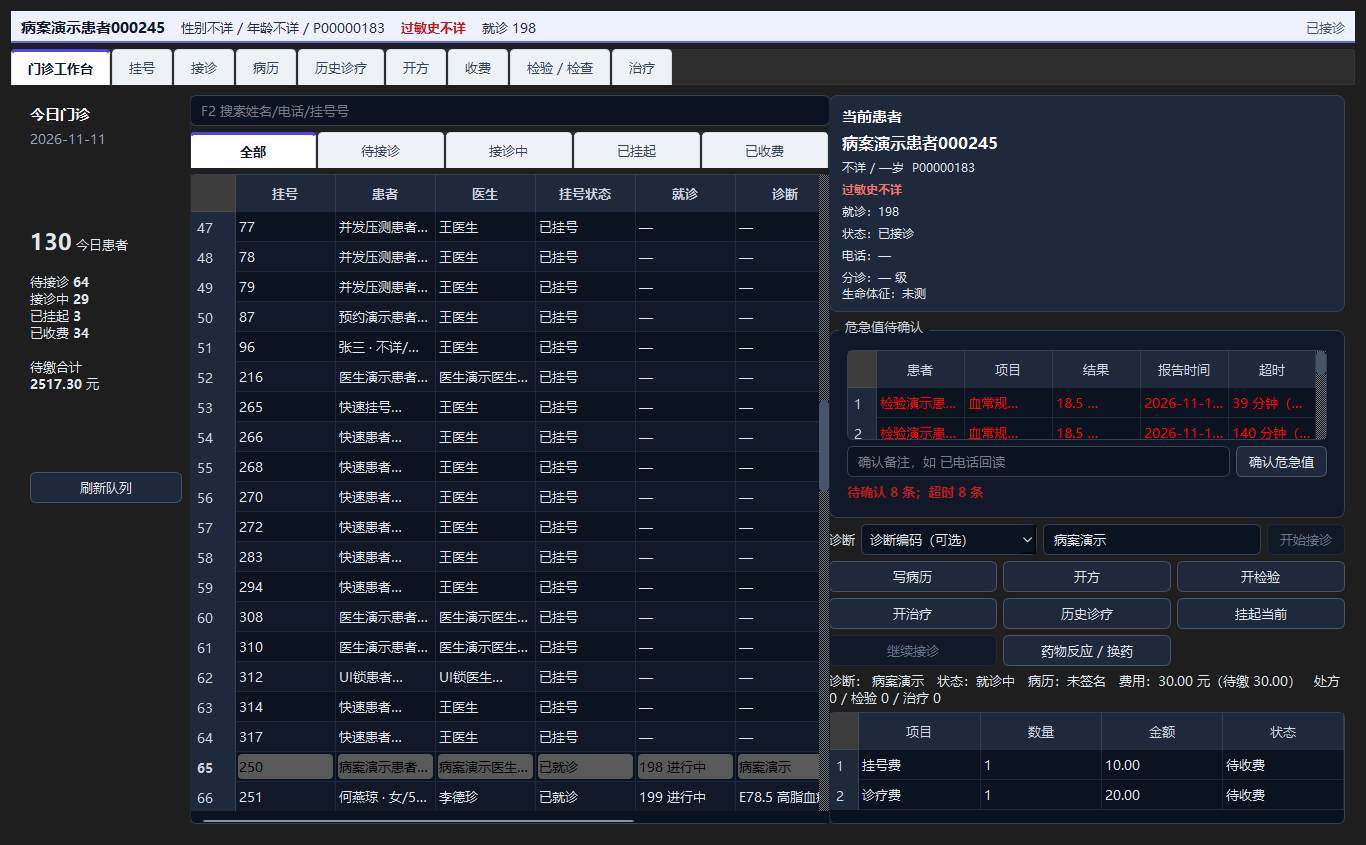
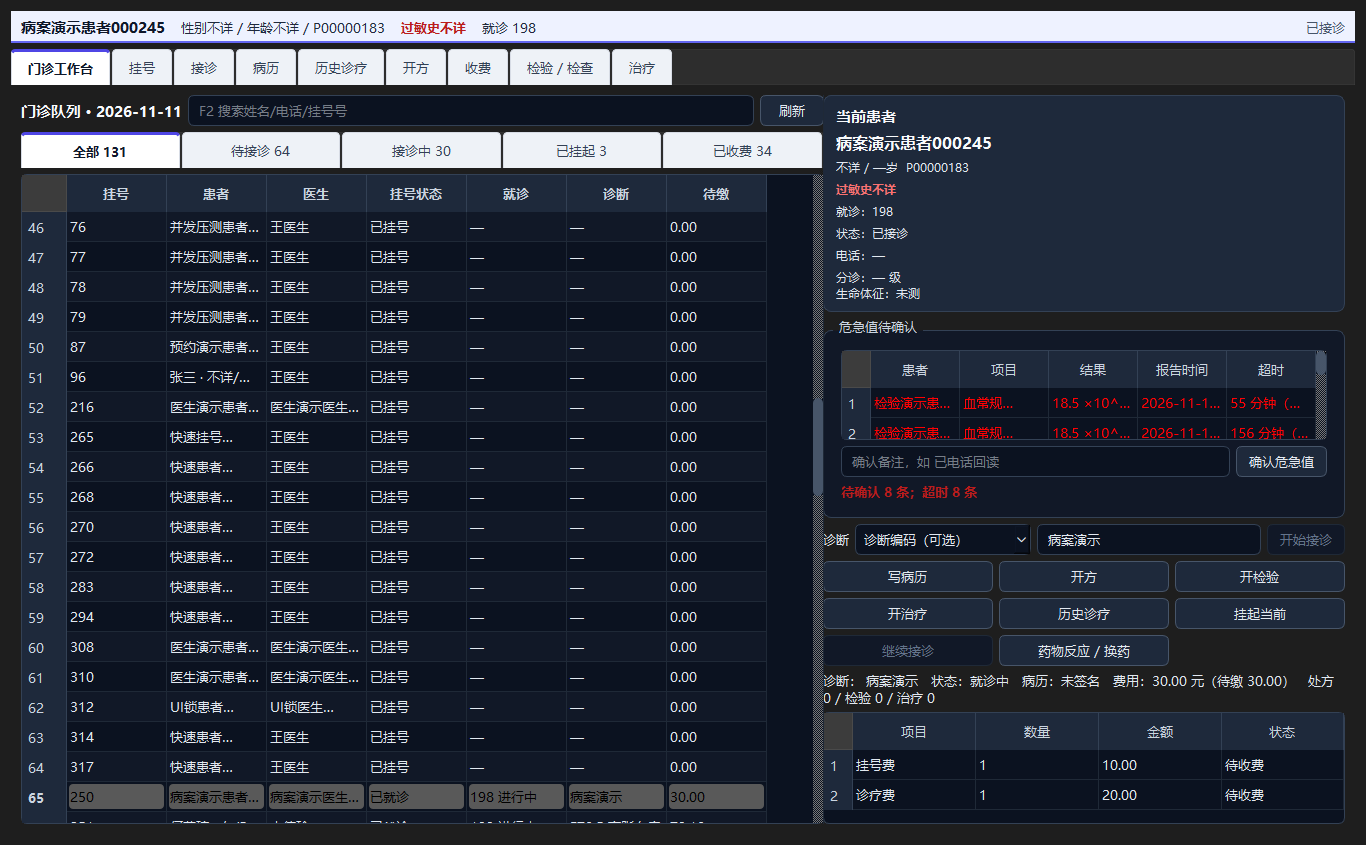
feat: 门诊队列整合统计/刷新，源码启动脚本 v0.82.0

diff --git a/his_client/ui/doctor.py b/his_client/ui/doctor.py
@@ -154,40 +154,31 @@ class DoctorWidget(QWidget):
         layout = QVBoxLayout(page)
         splitter = QSplitter(Qt.Horizontal)
 
-        # 左栏：日期与今日统计
-        left = QWidget()
-        left.setMaximumWidth(180)
-        left_layout = QVBoxLayout(left)
-        title = QLabel("今日门诊")
-        title.setStyleSheet("font-size:15px;font-weight:bold;color:#f8fafc;")
-        self.wb_date = QLabel(datetime.now().strftime("%Y-%m-%d"))
-        self.wb_date.setStyleSheet("color:#94a3b8;")
-        self.wb_stats = QLabel("")
-        self.wb_stats.setWordWrap(True)
-        self.wb_stats.setStyleSheet("color:#e2e8f0;line-height:1.8;")
-        refresh = QPushButton("刷新队列")
-        refresh.clicked.connect(self._load_workbench)
-        left_layout.addWidget(title)
-        left_layout.addWidget(self.wb_date)
-        left_layout.addWidget(self.wb_stats, 1)
-        left_layout.addWidget(refresh)
-        left_layout.addStretch(1)
-        splitter.addWidget(left)
-
-        # 中栏：患者队列 + 状态筛选
-        middle = QWidget()
-        middle_layout = QVBoxLayout(middle)
-        middle_layout.setContentsMargins(0, 0, 0, 0)
+        # 左栏：搜索 + 状态页签 + 患者队列（统计并入页签）
+        queue = QWidget()
+        queue_layout = QVBoxLayout(queue)
+        queue_layout.setContentsMargins(0, 0, 0, 0)
+        top = QHBoxLayout()
+        queue_title = QLabel(f"门诊队列 · {datetime.now():%Y-%m-%d}")
+        queue_title.setStyleSheet("font-size:15px;font-weight:bold;color:#f8fafc;")
         self.wb_search = QLineEdit()
         self.wb_search.setPlaceholderText("F2 搜索姓名/电话/挂号号")
         self.wb_search.setClearButtonEnabled(True)
         self.wb_search.textChanged.connect(self._filter_workbench)
-        middle_layout.addWidget(self.wb_search)
+        refresh = QPushButton("刷新")
+        refresh.setFixedWidth(64)
+        refresh.clicked.connect(self._load_workbench)
+        top.addWidget(queue_title)
+        top.addWidget(self.wb_search, 1)
+        top.addWidget(refresh)
+        queue_layout.addLayout(top)
+
         self.wb_status_tabs = QTabBar()
         for label in ("全部", "待接诊", "接诊中", "已挂起", "已收费"):
             self.wb_status_tabs.addTab(label)
         self.wb_status_tabs.currentChanged.connect(self._filter_workbench)
-        middle_layout.addWidget(self.wb_status_tabs)
+        queue_layout.addWidget(self.wb_status_tabs)
+
         self.wb_table = QTableWidget(0, 7)
         self.wb_table.setHorizontalHeaderLabels(
             ["挂号", "患者", "医生", "挂号状态", "就诊", "诊断", "待缴"]
@@ -197,8 +188,8 @@ class DoctorWidget(QWidget):
             lambda row, _col: self._start_workbench_row(row)
         )
         self.wb_table.setAlternatingRowColors(True)
-        middle_layout.addWidget(self.wb_table, 1)
-        splitter.addWidget(middle)
+        queue_layout.addWidget(self.wb_table, 1)
+        splitter.addWidget(queue)
 
         # 右栏：患者信息 + 危急值 + 操作 + 费用
         right = QWidget()
@@ -277,10 +268,9 @@ class DoctorWidget(QWidget):
         self.wb_fee_table.horizontalHeader().setSectionResizeMode(QHeaderView.Stretch)
         right_layout.addWidget(self.wb_fee_table, 1)
         splitter.addWidget(right)
-        splitter.setStretchFactor(0, 0)
-        splitter.setStretchFactor(1, 3)
-        splitter.setStretchFactor(2, 2)
-        splitter.setSizes([170, 620, 500])
+        splitter.setStretchFactor(0, 3)
+        splitter.setStretchFactor(1, 2)
+        splitter.setSizes([800, 520])
         layout.addWidget(splitter, 1)
         return page
 
@@ -385,16 +375,14 @@ class DoctorWidget(QWidget):
         open_count = sum(1 for item in all_rows if item.get("encounter_status") == "open")
         paused_count = sum(1 for item in all_rows if item.get("encounter_status") == "paused")
         closed_count = sum(1 for item in all_rows if item.get("encounter_status") == "closed")
-        pending = sum(float(item.get("pending_amount") or 0) for item in all_rows)
-        if hasattr(self, "wb_stats"):
-            self.wb_stats.setText(
-                f"<b style='font-size:22px'>{total}</b> 今日患者<br><br>"
-                f"待接诊 <b>{waiting}</b><br>"
-                f"接诊中 <b>{open_count}</b><br>"
-                f"已挂起 <b>{paused_count}</b><br>"
-                f"已收费 <b>{closed_count}</b><br><br>"
-                f"待缴合计<br><b>{pending:.2f}</b> 元"
-            )
+        if hasattr(self, "wb_status_tabs"):
+            for index, (label, count) in enumerate(
+                zip(
+                    ("全部", "待接诊", "接诊中", "已挂起", "已收费"),
+                    (total, waiting, open_count, paused_count, closed_count),
+                )
+            ):
+                self.wb_status_tabs.setTabText(index, f"{label} {count}")
         current = getattr(self, "wb_current", None)
         if current:
             for index, item in enumerate(rows):

diff --git a/app/version.py b/app/version.py
@@ -1,6 +1,6 @@
 """版本信息：服务端与客户端共用（客户端打包时读取）。"""
 APP_NAME = "HIS 门诊部系统"
-APP_VERSION = "0.81.0"
+APP_VERSION = "0.82.0"
 API_VERSION = "v1"
 # 低于该版本的客户端提示升级
-CLIENT_MIN_VERSION = "0.81.0"
+CLIENT_MIN_VERSION = "0.82.0"

diff --git a/his_client/__init__.py b/his_client/__init__.py
@@ -5,6 +5,6 @@
 - api：REST API 封装
 - ui：登录对话框、主窗口、收费员工作站
 """
-CLIENT_VERSION = "0.81.0"
+CLIENT_VERSION = "0.82.0"
 
 __all__ = ["CLIENT_VERSION"]

diff --git a/docs/全流程测试报告.md b/docs/全流程测试报告.md
@@ -9,7 +9,7 @@
 - 医保/GSP/病案后台页面：**通过，真实表单提交与截图留证**
 - 录像抽帧核验：收费、库房入库、出库、检验报告、最终七窗口均可见，非空白/非日志拼接
 - 结论：**通过（门诊 + 治疗室 + 检验 + 收费/发票/退费 + 盘点 + 医保/GSP/病案后台核心闭环）**
-- 2026-11-10 增补：患者 P0 建档、过敏硬拦截、门诊分诊生命体征/分级、ICD-10 诊断编码、危急值医生确认、GSP 召回批次锁定、高危药品双人核对、治疗室知情同意签名、NFC 就诊卡、院长审批、医保属性入库快照、服务端医保总开关、病案销毁附件/清册、门诊病历/处方笺打印、Code128 条码、辅助检查自动带入、收费/药房扫码定位与状态、药房 OTC/耗材零售；全量 **651 passed**；版本 **0.81.0**；门诊工作站左侧患者卡 + 历史就诊列表，病历/开方/挂号分栏。
+- 2026-11-10 增补：患者 P0 建档、过敏硬拦截、门诊分诊生命体征/分级、ICD-10 诊断编码、危急值医生确认、GSP 召回批次锁定、高危药品双人核对、治疗室知情同意签名、NFC 就诊卡、院长审批、医保属性入库快照、服务端医保总开关、病案销毁附件/清册、门诊病历/处方笺打印、Code128 条码、辅助检查自动带入、收费/药房扫码定位与状态、药房 OTC/耗材零售；全量 **651 passed**；版本 **0.82.0**；门诊队列状态页签计数、刷新整合，左侧患者卡 + 历史就诊列表，病历/开方/挂号分栏。
 - 2026-11-10 视频复核：重新录制挂号收费、医生站、护士站、治疗室、药房、库房、病案室、院长审批；旧视频未冒充新流程。
 - 严格说明：UI 录像覆盖 7 个核心角色；盘点、医保、GSP、病案以后台真实页面表单操作 + 截图/打印验证。若要求所有后台页面逐页录屏，当前仍是抽样页面级验证，但已测范围未发现失败。
 

diff --git a/README.md b/README.md
@@ -18,19 +18,46 @@
 
 Python 3.12 · FastAPI · SQLAlchemy 2 · SQLite（可迁移 PostgreSQL）· Alembic · Jinja2 · PySide6 · PyInstaller · pytest
 
-## 快速开始（源码运行，Windows）
+## 快速开始（源码运行，Windows，不打包 exe）
+
+### 1. 服务端
+
+第一个 PowerShell / CMD 窗口：
 
 ```powershell
-uv sync --extra client          # 服务端依赖 + 客户端 PySide6
-uv run python scripts/init_db.py     # 新库初始化；存量库增量升级
-uv run python scripts/seed_demo.py   # 演示账号与基础数据
-.\start.bat                          # 启动服务，自动打开管理台
+cd /d D:\Documents\PycharmProjects\HIS
+.\.venv\Scripts\python.exe scripts\init_db.py
+.\.venv\Scripts\python.exe scripts\seed_demo.py
+.\dev_server.bat
+```
+
+等价于直接运行：
+
+```powershell
+.\.venv\Scripts\python.exe scripts\run_server.py
+```
+
+### 2. 桌面客户端
+
+第二个窗口：
+
+```powershell
+cd /d D:\Documents\PycharmProjects\HIS
+.\dev_client.bat
+```
+
+等价于：
+
+```powershell
+.\.venv\Scripts\python.exe -m his_client
 ```
 
 浏览器访问：
 
-- 管理台：<http://127.0.0.1:8000/admin>
-- API 文档：<http://127.0.0.1:8000/docs>
+- 管理台：<http://127.0.0.1:8001/admin>
+- API 文档：<http://127.0.0.1:8001/docs>
+
+> 本机使用 `config.local.ini` 把端口覆盖为 8001；没有 `.venv` 时先执行 `py -3.12 -m venv .venv`，再 `uv sync --extra client`。
 
 ### Linux（Ubuntu/Debian）
 
